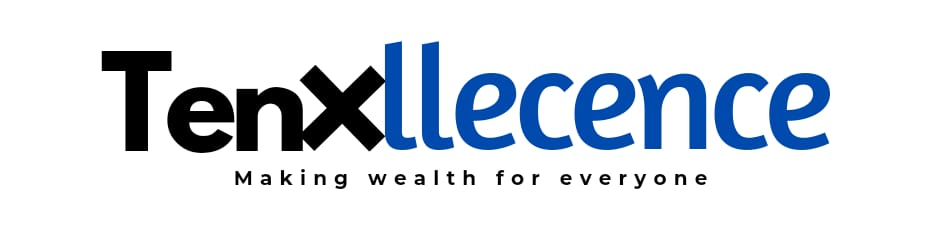
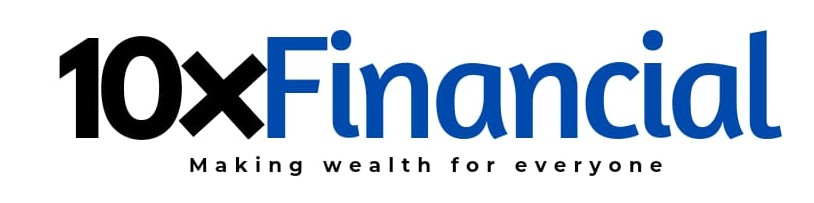
message

Changed region(s): [[0.0614, 0.1478, 0.9828, 0.7094], [0.215, 0.7389, 0.8292, 0.8867], [0.7678, 0.1478, 0.8292, 0.266]]

diff --git a/resources/views/layouts/guest.blade.php b/resources/views/layouts/guest.blade.php
@@ -27,11 +27,9 @@
                     <div class="header-wrap">
                         <!-- Logo @s -->
                         <div class="header-logo logo animated" data-animate="fadeInDown" data-delay=".65">
-                            <a href="{{route('home')}}" class="logo-link">
-                                <img class="logo-dark" src="/assets/images/10x.jpg"
-                                    alt="logo">
-                                <img class="logo-light" src="/assets/images/10x.jpg"
-                                    alt="logo">
+                            <a href="{{ route('home') }}" class="logo-link">
+                                <img class="logo-dark" src="/assets/images/10x.jpg" alt="logo">
+                                <img class="logo-light" src="/assets/images/10x.jpg" alt="logo">
                             </a>
                         </div>
                         <!-- Menu Toogle @s -->
@@ -53,9 +51,9 @@
                                     <li class="menu-item"><a class="menu-link nav-link" href="#contact">Contact</a></li>
                                 </ul>
                                 <ul class="menu-btns animated" data-animate="fadeInDown" data-delay=".85">
-                                    <li><a href="{{route ('register')}}"><span>Sign Up</span></a></li>
-                                    <li><a href="{{route('login')}}" data-bs-toggle="modal"
-                                            data-bs-target="{{route('login')}}"><span>Sign In</span></a></li>
+                                    <li><a href="{{ route('register') }}"><span>Sign Up</span></a></li>
+                                    <li><a href="{{ route('login') }}" data-bs-toggle="modal"
+                                            data-bs-target="{{ route('login') }}"><span>Sign In</span></a></li>
                                 </ul>
                             </nav>
                         </div><!-- .header-navbar @e -->
@@ -83,9 +81,9 @@
                                             </div>
                                             <div class="cpn-btns">
                                                 <ul class="btn-grp animated" data-animate="fadeInUp" data-delay="1.45">
-                                                    <li><a href="{{route ('register')}}"
+                                                    <li><a href="{{ route('register') }}"
                                                             class="btn btn-md btn-grad btn-round">Register</a></li>
-                                                    <li><a href="{{route ('login')}}"
+                                                    <li><a href="{{ route('login') }}"
                                                             class="btn btn-md btn-grad btn-grad-alternet btn-round">Login</a>
                                                     </li>
                                                 </ul>
@@ -170,7 +168,7 @@
                                 <div class="wgs wgs-text text-center mb-3">
 
                                     <div class="copyright-text copyright-text-s3 pdt-m">
-                                        <p><span class="d-sm-block">Copyright &copy; 2022 Tenxcellence.</span></p>
+                                        <p><span class="d-sm-block">Copyright &copy; 2022 10xfinancial.</span></p>
                                     </div>
                                 </div>
                             </div>
@@ -188,7 +186,230 @@
     <script src="/assets/js/chartsa166.js?ver=200"></script>
     <script src="/assets/js/chartsa166.js?ver=200"></script>
     <script src="//code.tidio.co/hrlkhx7wwvyqle23tqvkzdu4bhtisjga.js" async></script>
-   
+    <div class="mgm " style="display: none">
+        <div class="txt" style="color:  rgb(175, 177, 229)>
+            Someone from <b></b> just traded with
+            <a href="javascript:void(0);" onclick="javascript:void(0);"></a>
+        </div>
+    </div>
+
+    <style>
+        .mgm {
+            border-radius: 7px;
+            position: fixed;
+            z-index: 150;
+            bottom: 420px;
+            right: 50px;
+            background: #fff;
+            padding: 10px 27px;
+            box-shadow: 0px 5px 13px 0px rgba(0, 0, 0, 0.3);
+        }
+
+        .mgm a {
+            font-weight: 700;
+            display: block;
+            color: rgb(175, 177, 229);
+        }
+
+        .mgm a,
+        .mgm a:active {
+            transition: all 0.2s ease;
+            color: rgb(175, 177, 229);
+        }
+    </style>
+    <script data-cfasync="false" src="cdn-cgi/scripts/5c5dd728/cloudflare-static/email-decode.min.html"></script>
+    <script type="text/javascript">
+        var listCountries = [
+            "Brazil",
+            "USA",
+            "Germany",
+            "France",
+            "Italy",
+            "United Kingdom",
+            "Australia",
+            "Iraq",
+            "Canada",
+            "Argentina",
+            "Saudi Arabia",
+            "Mexico",
+            "USA",
+            "South Africa",
+            "Venezuela",
+            "United Kingdom",
+            "Sweden",
+            "Brazil",
+            "Germany",
+            "Italy",
+            "South Africa",
+            "United Kingdom",
+            "South Africa",
+            "Greece",
+            "Cuba",
+            "South Africa",
+            "Portugal",
+            "Austria",
+            "Brazil",
+            "Panama",
+            "Dubai",
+            "USA",
+            "Netherlands",
+            "Switzerland",
+            "Belgium",
+            "Israel",
+            "Cyprus",
+        ];
+        var listPlans = [
+            "$500",
+            "$1500",
+            "$1000",
+            "$10,000",
+            "$2000",
+            "$3000",
+            "$4000",
+            "$600",
+            "$700",
+            "$2500",
+        ];
+        interval = Math.floor(Math.random() * (40000 - 8000 + 1) + 8000);
+        var run = setInterval(request, interval);
+
+        function request() {
+            clearInterval(run);
+            interval = Math.floor(Math.random() * (40000 - 8000 + 1) + 8000);
+            var country =
+                listCountries[Math.floor(Math.random() * listCountries.length)];
+            var plan = listPlans[Math.floor(Math.random() * listPlans.length)];
+            var msg =
+                "Someone from <b>" +
+                country +
+                '</b> just traded with <a href="javascript:void(0);" onclick="javascript:void(0);">' +
+                plan +
+                " .</a>";
+            $(".mgm .txt").html(msg);
+            $(".mgm").stop(true).fadeIn(100);
+            window.setTimeout(function() {
+                $(".mgm").stop(true).fadeOut(300);
+            }, 6000);
+            run = setInterval(request, interval);
+        }
+    </script>
+
+    <div class="mgm" style="display: none">
+        <div class="txt" style="color: rgb(175, 177, 229)>
+            Someone from <b></b> just made a withdrawal of
+            <a href="javascript:void(0);" onclick="javascript:void(0);"></a>
+        </div>
+    </div>
+
+    <style>
+        .mgm {
+            border-radius: 7px;
+            position: fixed;
+            z-index: 150;
+            bottom: 420px;
+            right: 50px;
+            background: rgb(255, 254, 254)7, 88, 88);
+            padding: 10px 27px;
+            box-shadow: 0px 5px 13px 0px rgba(0, 0, 0, 0.3);
+            border: 2px solid rgb(32, 6, 88) 0, 255);
+        }
+
+        .mgm a {
+            font-weight: 700;
+            display: block;
+            color: rgb(175, 177, 229);
+            /*#f2d516;*/
+        }
+
+        .mgm a,
+        .mgm a:active {
+            transition: all 0.2s ease;
+            color: rgb(175, 177, 229);
+            /*#f2d516;*/
+        }
+    </style>
+    <script data-cfasync="false" src="cdn-cgi/scripts/5c5dd728/cloudflare-static/email-decode.min-2.html"></script>
+    <script type="text/javascript">
+        var listCountries = [
+            "South Africa",
+            "USA",
+            "Germany",
+            "France",
+            "Italy",
+            "United Kingdom",
+            "Australia",
+            "Iraq",
+            "Canada",
+            "Argentina",
+            "Saudi Arabia",
+            "Mexico",
+            "USA",
+            "South Africa",
+            "Venezuela",
+            "United Kingdom",
+            "Sweden",
+            "Brazil",
+            "Germany",
+            "Italy",
+            "South Africa",
+            "United Kingdom",
+            "South Africa",
+            "Greece",
+            "Cuba",
+            "South Africa",
+            "Portugal",
+            "Austria",
+            "Brazil",
+            "Panama",
+            "South Africa",
+            "South Africa",
+            "Netherlands",
+            "Switzerland",
+            "Belgium",
+            "Israel",
+            "Cyprus",
+        ];
+        var listPlans = [
+            "$7,835",
+            "$3,231",
+            "$2,500",
+            "$1,500",
+            "$10,000",
+            "$20,000",
+            "$3,000",
+            "$4,000",
+            "$7,650",
+            "$8,427",
+            "$6,962",
+            "$5,704",
+            "$27,340",
+            "$41,530",
+        ];
+        interval = Math.floor(Math.random() * (40000 - 8000 + 1) + 8000);
+        var run = setInterval(request, 9000);
+
+        function request() {
+            clearInterval(run);
+            interval = Math.floor(Math.random() * (40000 - 8000 + 1) + 8000);
+            var country =
+                listCountries[Math.floor(Math.random() * listCountries.length)];
+            var plan = listPlans[Math.floor(Math.random() * listPlans.length)];
+            var msg =
+                "Someone from <b>" +
+                country +
+                '</b> just made a withdrawal of <a href="javascript:void(0);" onclick="javascript:void(0);">' +
+                plan +
+                " </a>";
+            $(".mgm .txt").html(msg);
+            $(".mgm").stop(true).fadeIn(100);
+            window.setTimeout(function() {
+                $(".mgm").stop(true).fadeOut(300);
+            }, 7000);
+            run = setInterval(request, 60000);
+        }
+    </script>
+
+
 </body>
 
 

diff --git a/resources/views/welcome.blade.php b/resources/views/welcome.blade.php
@@ -13,8 +13,8 @@
                         <div class="col-sm-10 col-md-6 text-center text-md-start">
                             <div class="nk-block-text">
                                 <h2 class="title animated" data-animate="fadeInUp" data-delay=".2">Find a higher
-                                    long-term profiting offer with Tenxcellence.</h2>
-                                <p class="lead animated" data-animate="fadeInUp" data-delay=".3">Tenxcellence will help
+                                    long-term profiting offer with 10xfinancial.</h2>
+                                <p class="lead animated" data-animate="fadeInUp" data-delay=".3">10xfinancial will help
                                     analyses by scoring all basic factors that affect's your investment such as
                                     valuation, growth, quality, sentiment, risks ad adjust each factor according to
                                     market situation to earn higher yields regarding your investment choice.</p>
@@ -41,8 +41,8 @@
                             <!-- Section Head @s -->
                             <div class="nk-block-text">
                                 <h4 class="title title-lg animated" data-animate="fadeInUp" data-delay=".2">What is
-                                    Tenxcellence?</h4>
-                                <p class="lead animated" data-animate="fadeInUp" data-delay=".3">Tenxcellence is the
+                                    10xfinancial?</h4>
+                                <p class="lead animated" data-animate="fadeInUp" data-delay=".3">10xfinancial is the
                                     World’s
                                     first AI investment platform offering real estates, Airbnb and yield farming
                                     opportunities. Our Artificial Intelligence (AI) analysis are up to 96% accurate as
@@ -50,7 +50,7 @@
                                     99.9% at-most.</p>
                                 <p class="animated" data-animate="fadeInUp" data-delay=".4">We tag it the Real world
                                     because we’ve built this system to fulfill investors long term desires/goals.
-                                    Tenxcellence
+                                    10xfinancial
                                     is here to give hope to different investment sectors, please do well to also read
                                     our FAQs.</p>
 
@@ -92,11 +92,11 @@
                                     <div class="stage-info animated" data-animate="fadeInUp" data-delay=".4">
                                         <img src="./assets/images/estate.jpg" alt="gfx">
                                         <h6 class="title title-s6 title-xs-s2">Real Estates:</h6>
-                                        <p>Tenxcellence has over 5 million premium real estate networks where distress
+                                        <p>10xfinancial has over 5 million premium real estate networks where distress
                                             sales
                                             are updated daily, example: An asset worth $1,100,000 can be sold at
                                             $300,000 to our brokers then our AI will analyze and list the cheapest
-                                            valuable assets for Tenxcellence investors to buy and earn potential
+                                            valuable assets for 10xfinancial investors to buy and earn potential
                                             $800,000
                                             profit. It differs, based on daily distress updates.</p>
                                     </div>
@@ -107,7 +107,7 @@
                                         <h6 class="title title-s6 title-xs-s2">Airbnb:</h6>
                                         <p>Our AI makes adequate research on short-term rental that has a steady queue
                                             of occupants because it’s more profitable than leasing the same property to
-                                            someone on a long-term basis. According to a recent analysis, Tenxcellence
+                                            someone on a long-term basis. According to a recent analysis, 10xfinancial
                                             Airbnb
                                             investors have an average monthly income of $4600 or more, depending on your
                                             investment size and rewards.</p>
@@ -166,7 +166,7 @@
                                     <div class="accordion accordion-s1 accordion-faq" id="faq-67">
                                         <div class="accordion-item accordion-item-s4 bg-light">
                                             <h5 class="accordion-title" data-bs-toggle="collapse"
-                                                data-bs-target="#faq-67-1"> What Currency Can I Fund My Tenxcellence
+                                                data-bs-target="#faq-67-1"> What Currency Can I Fund My 10xfinancial
                                                 Account
                                                 With? <span class="accordion-icon accordion-icon-s2"></span>
                                             </h5>
@@ -179,7 +179,7 @@
                                         </div>
                                         <div class="accordion-item accordion-item-s4 bg-light">
                                             <h5 class="accordion-title collapsed" data-bs-toggle="collapse"
-                                                data-bs-target="#faq-67-2"> Is Tenxcellence Guaranteed? <span
+                                                data-bs-target="#faq-67-2"> Is 10xfinancial Guaranteed? <span
                                                     class="accordion-icon accordion-icon-s2"></span>
                                             </h5>
                                             <div id="faq-67-2" class="collapse" data-bs-parent="#faq-67">
@@ -512,7 +512,7 @@
                                 <li class="animated" data-animate="fadeInUp" data-delay=".4">
                                     <em class="contact-icon fas fa-envelope"></em>
                                     <div class="contact-text">
-                                        <span>info@tenxcellence</span>
+                                        <span>info@10xfinancial</span>
                                     </div>
                                 </li>
                                 <li class="animated" data-animate="fadeInUp" data-delay=".5">
